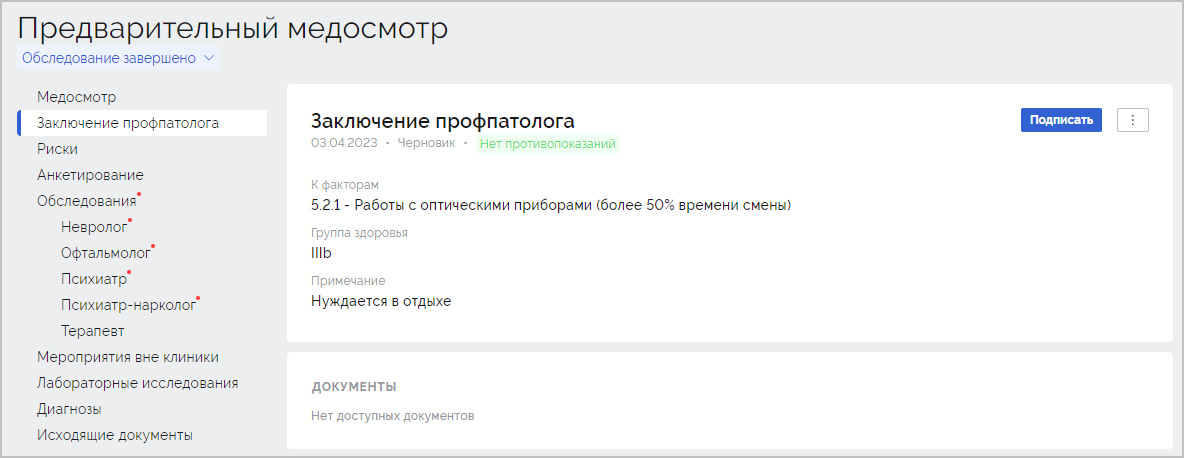
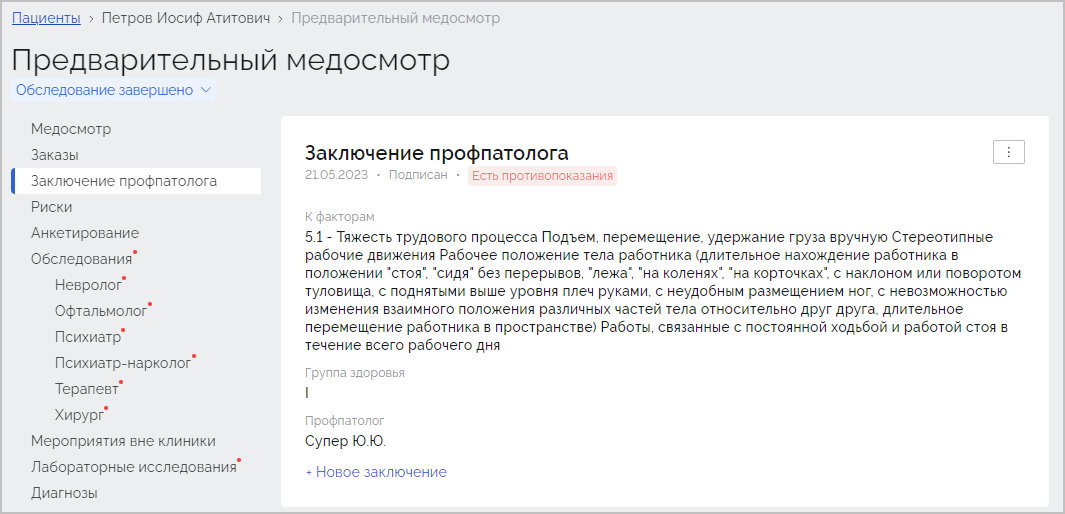
Обновлено по результатам беседы от 05.05.2023

diff --git a/Интегра 2023/Интегра. Руководство пользователя.md b/Интегра 2023/Интегра. Руководство пользователя.md
@@ -397,11 +397,19 @@
 
 ### 5.3. Мероприятия вне клиники
 
-Работнику регистратуры доступна возможность добавления в карточку медосмотра результатов исследований или заключений врачей, которые уже имеются у пациента (например, результаты прохождения рентгенологического исследования), или направления пациента на дополнительное обследование в другую клинику. Для этого перейдите в раздел **Мероприятия вне клиники** (1) и нажмите кнопку **Добавить** (2):
+Работнику регистратуры доступна возможность добавления в карточку медосмотра результатов исследований или заключений врачей, которые уже имеются у пациента (например, результаты прохождения рентгенологического исследования). Существует несколько случаев, когда требуется работа с мероприятиями вне клиники:
+
+1. Пациент самостоятельно предоставил результаты исследований. В данном случае задача работника регистратуры сформировать требуемое мероприятие и загрузить результаты исследований, предоставленные пациентом, в раздел **Результаты**.
+2. Пациенту требуется дополнительное обследование, инициатором которого является врач или профпатолог. Требуется сформировать мероприятие, а также сформировать и распечатать направление. 
+3. Пациенту требуется дополнительное обследование, инициатором которого является врач или профпатолог. Требуется сформировать мероприятие и направление. После прохождения пациентом данного мероприятия необходимо добавить результаты его прохождения в раздел **Результаты**. 
+
+#### 5.3.1. Формирование мероприятия
+
+Для формирования мероприятия перейдите в раздел **Мероприятия вне клиники** (1) и нажмите кнопку **Добавить** (2):
 
 ![](img/vne1.png)
 
-В открывшемся окне **Новое мероприятие** выберите тип услуги (1), укажите или измените название (2) и нажмите кнопку Создать (3) или сразу нажмите кнопку **Запланировать** (4) для формирования приема. В данном случае мероприятие будет создано и сохранено.
+В открывшемся окне **Новое мероприятие** выберите тип услуги (1), укажите или измените название (2) и нажмите кнопку **Создать** (3) или сразу нажмите кнопку **Запланировать** (4) для формирования приема. В данном случае мероприятие будет создано и сохранено.
 
 ![](img/vne2.png)
 
@@ -409,11 +417,13 @@
 
 ![](img/vne3.png)
 
-Перейдите в запланированное мероприятие и сформируйте направление. Для этого кликните по записи с требуемым мероприятием:
+#### 5.3.2. Формирование направления
+
+Для формирования направления кликните по записи с требуемым мероприятием в ранее запланированном мероприятии:
 
 ![](img/vne4.png)
 
-В открывшемся окне запланированного мероприятия кликните по записи с направлением, или нажмите ссылку **Заполнить** справа от него:
+В открывшемся окне мероприятия кликните по записи с направлением, или нажмите ссылку **Заполнить** справа от него:
 
 ![](img/vne5.png)
 
@@ -425,7 +435,15 @@
 
 ![](img/vne7.png)
 
-После прохождения пациентом запланированных мероприятий и предоставления результатов загрузите их в карточку мероприятия. Для этого кликните по строке **Результаты** или по ссылке **Загрузить**:
+#### 5.3.3. Печать направления
+
+В зависимости от правил, установленных в медицинском учреждении, распечатать направление может как сам врач так и работник регистратуры. Для печати направления откройте карточку мероприятия, кликните по записи с направлением и в открывшемся окне нажмите кнопку **Печать**:
+
+![](img/vne11.png)
+
+#### 5.3.4. Загрузка результатов прохождения мероприятий
+
+После прохождения пациентом мероприятий по направлению и предоставления результатов загрузите их в карточку мероприятия. Для этого в карточке требуемого мероприятия кликните по строке **Результаты** или по ссылке **Загрузить**:
 
 ![](img/vne8.png)
 
@@ -433,7 +451,7 @@
 
 ![](img/vne9.png)
 
-Карточка ранее назначенного мероприятия вне клиники примет соответствующий вид:
+Карточка ранее назначенного мероприятия по направлению примет соответствующий вид:
 
 ![](img/vne10.png)
 
@@ -483,9 +501,17 @@
 
 ![](img/prof2.png)
 
-В окне **Заключение профпатолога** выполните следующие действия:
+В системе существует три сценария формирования заключения профпатолога:
 
-1. В случае наличия у пациента противопоказаний к работе укажите их в строке **Противопоказания** (1). В случае наличия у пациента противопоказаний измените вариант "Нет противопоказаний" на "Есть противопоказания". Укажите факторы риска, к которым относятся данные противопоказания, а также укажите группу здоровья:
+- у пациента есть противопоказания;
+- пациенту требуется дополнительное обследование;
+- у пациента нет противопоказаний.
+
+В окне **Заключение профпатолога** выполните следующие действия в зависимости от сценария:
+
+#### 7.2.1. Для пациента с противопоказаниями
+
+В случае наличия у пациента противопоказаний выберите вариант "Есть противопоказания". Укажите факторы риска, к которым относятся данные противопоказания, а также укажите группу здоровья:
 
 ![](img/prof4.png)
 
@@ -499,25 +525,81 @@
 
 ![](img/prof3.png)
 
-После заполнения всех необходимых полей нажмите кнопку **Сохранить**. Будет сформирован и сохранен черновик заключения профпатолога:
+После заполнения всех необходимых полей нажмите кнопку **Подписать**. Будет сформировано заключение профпатолога.
 
 ![](img/prof5.png)
 
-Если нужно внести изменения в заключение профпатолога, в правом верхнем углу нажмите на значок в виде трех точек и выберите вариант **Редактировать** (1). Для удаления текущего варианта заключения нажмите **Удалить** (2):
+В зависимости от противопоказаний сформируйте и передайте пациенту заключение а также определенные документы в соответствии с противопоказаниями:
 
-![](img/prof6.png)
+![](img/prof22.png)
 
-Подпишите заключение.  Для этого нажмите кнопку **Подписать**:
+Если у клиники есть лицензия на проведение экспертизы профпригодности, сформируйте и передайте пациенту (либо его работодателю):
 
-![](img/prof12.png)
+- протокол экспертизы профпригодности;
+- заключение экспертизы профпригодности.
 
-Подтвердите подписание:
+Если у клиники отсутствует лицензия на проведение экспертизы профпригодности, сформируйте и передайте пациенту (либо его работодателю) направление для проведения экспертизы профпригодности.
 
-![](img/prof11.png)
-
-И измените статус медосмотра на "Заключение сформировано":
+Измените статус медосмотра на "Заключение сформировано":
 
 ![](img/prof13.png)
+
+#### 7.2.2. Для пациента которому требуется дополнительное обследование
+
+В случае необходимости проведения дополнительных обследований пациента выберите вариант "Заключение не дано" (1), в поле **Примечание** укажите, что требуется дополнительное обследование (2) и нажмите кнопку **Подписать** (3):
+
+![](img/prof18.png) 
+
+Статус заключения изменится на "Заключение не дано". Сформируйте и передайте пациенту справку о необходимости дополнительного обследования. Для этого в окне заключения кликните по соответствующей ссылке:
+
+![](img/prof19.png)
+
+В открывшемся окне справки укажите предполагаемый диагноз (1), место работы сотрудника (2), должность (3), дату формирования справки (4) и нажмите кнопку **Сохранить** (5):
+
+![](img/prof20.png)
+
+После прохождения пациентом дополнительных обследований и возврата в клинику, ознакомьтесь с представленными результатами и сформируйте новое заключение, воспользовавшись кнопкой **Новое заключение**:
+
+![](img/prof21.png)
+
+Сформируйте новое заключение и измените статус медосмотра на "Заключение сформировано":
+
+![](img/prof13.png)
+
+#### 7.2.3. Для пациента без противопоказаний
+
+Если у пациента отсутствуют противопоказания но по какой-то причине пациент не соответствует условиям для выдачи типовых заключений, откройте карточку медосмотра и перейдите в раздел Заключение профпатолога. В поле **Противопоказания** выберите вариант "Нет противопоказаний" (1), укажите срок действия данного заключения (2), группу здоровья (3) и нажмите кнопку **Подписать** (4): 
+
+![](img/prof23.png)
+
+Измените статус медосмотра на "Заключение сформировано":
+
+![](img/prof13.png)
+
+### 7.3. Массовая выдача заключений
+
+В системе существует возможность массовой выдачи типовых заключений профпатологом. Данная возможность применима только к тем медосмотрам пациентов, у которых отсутствуют какие либо отклонения (риски). Для успешного формирования типовых заключений пациент должен полностью соответствовать всем следующим условиям:
+
+- у пациента автоматически рассчитаны риски;
+- присутствуют результаты анкетирования;
+- выполнены все приемы врачей, в каждом приёме отсутствуют какие либо противопоказания;
+- выполнены все требуемые инструментальные и лабораторные исследования,  показатели которых не выбиваются из нормы.
+
+Лишь при соблюдении всех вышеперечисленных условий при формировании типовых заключений статус медосмотров пациентов изменится на "Заключение сформировано". Во всех остальных случаях статус медосмотра останется "Обследование завершено" и профпатологу потребуется формировать заключение для оставшихся пациентов вручную.
+
+Для массовой выдачи заключений перейдите в раздел **Медосмотры** (1) и отфильтруйте записи по статусу "Обследование завершено" (2):
+
+![](img/prof15.png)
+
+Выделите все отобразившиеся медосмотры работников и нажмите кнопку **Типовые заключения**:
+
+![](img/prof16.png)
+
+В окне подтверждения нажмите **Сформировать заключения**:
+
+![](img/prof17.png)
+
+Для всех пациентов медосмотры которых соответствуют условиям формирования типовых заключений, статус медосмотров изменится на "Заключение сформировано". В случае, если статус медосмотра пациента не изменился, сформируйте заключение вручную.
 
 ## 8. Действия работника регистратуры после формирования заключения профпатологом
 
